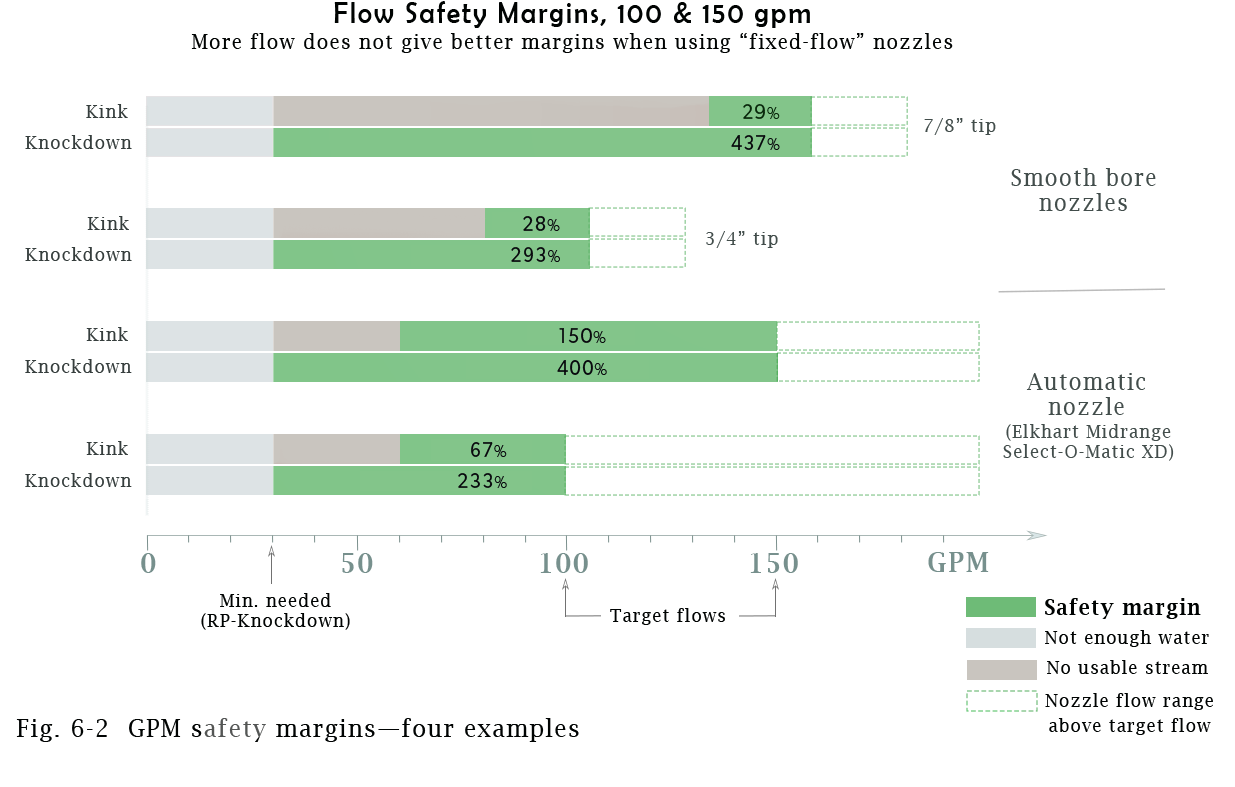
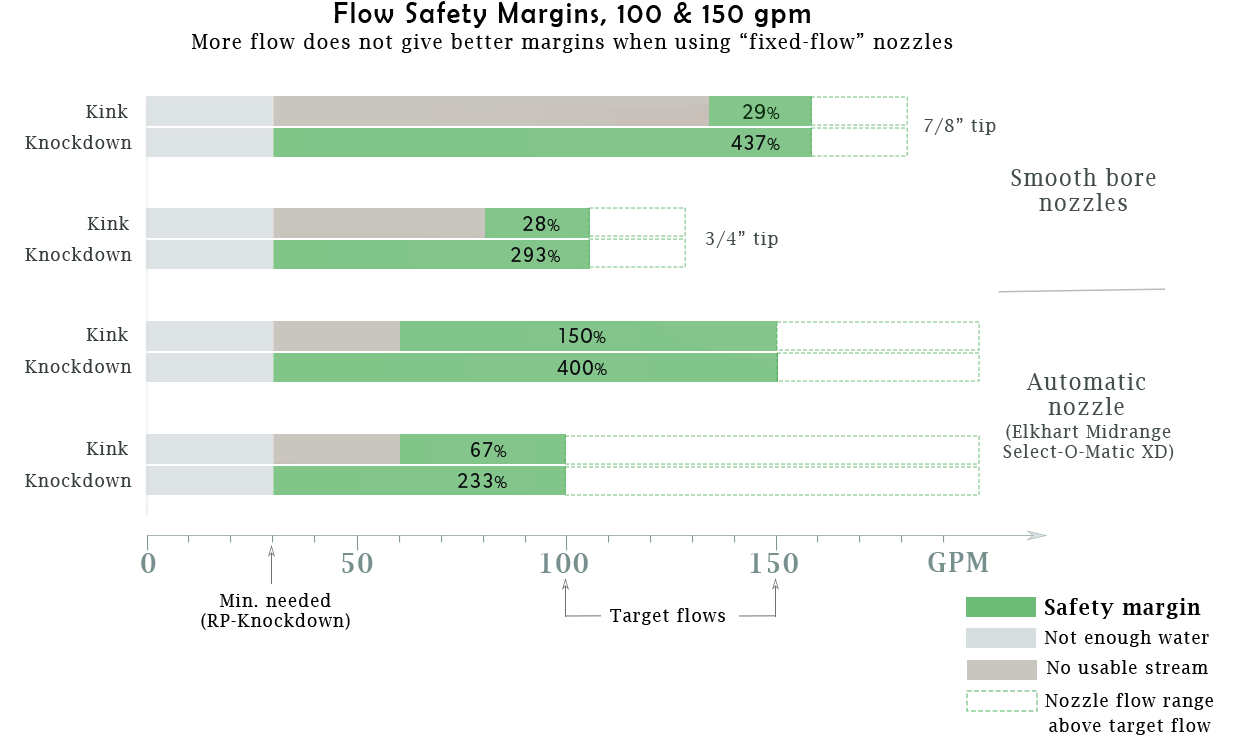
Fixed captions and added garden appt pic in GPM

diff --git a/Mockup.html b/Mockup.html
@@ -1,0 +1,140 @@
+<!doctype html>
+<html>
+<head>
+<!-- Global site tag (gtag.js) - Google Analytics -->
+<script async src="https://www.googletagmanager.com/gtag/js?id=G-ZQJKR29JEW"></script>
+<script>
+  window.dataLayer = window.dataLayer || [];
+  function gtag(){dataLayer.push(arguments);}
+  gtag('js', new Date());
+
+  gtag('config', 'G-ZQJKR29JEW');
+</script>	
+<meta charset="utf-8">
+<meta name="description" content="Flame length in structural firefighting">
+<meta name="keywords" content="flame length in structure fires, firefighting, structural firefighting, flame length, wetting fuel surfaces">
+<meta name="viewport" content="width=device-width, initial-scale=1">	
+<title>Flame Length etc</title>
+<link href="CSS/RoomFires.css" rel="stylesheet" type="text/css">
+<link rel="stylesheet" href="https://cdnjs.cloudflare.com/ajax/libs/font-awesome/4.7.0/css/font-awesome.min.css">	
+	<link rel="icon" href="IST icon.png">
+</head>
+
+<body>
+
+<section class="Room">
+<header>
+  <h1 id="DocTitle">
+    <nav class="RF-Nav">
+      <div class="dropdown">
+        <button class="dropbtn"> 
+          <i class="fa fa-bars"></i>
+          </button>
+        <div class="dropdown-content">
+          <a href="index.html">1. Room Fires etc</a>
+          <a href="PorchFires.html">2. Porch Fires etc</a>
+          <a href="AutomaticNozzles.html">3. Nozzles etc</a>
+          <a href="FlameLength.html">4. Flame Length etc</a>
+		  <a href="Cocklofts.html">5. Cockloft Fires etc</a>
+		  <a href="GPM.html">6. GPM and Safety Margins etc</a>
+          </div>
+		  <num>4 of 6</num>
+        </div> 
+      </nav>	  
+    <num2>4)</num2>Flame Length etc&nbsp;&nbsp;&nbsp;<br>
+    
+  </h1>
+	
+<div id="DocSubtitle"><span style="font-size:9px;line-height:80%">By 
+    <span class = "tooltip">Bob Bourgeois<span class="tooltipcontent"><span class="tooltiptext" >Bob is a former District Fire Chief (FF 40 yrs),  former LLC owner (public safety case studies), BSME Columbia Univ</span></span></span></span><br>
+        With input from
+        <span class = "tooltip">Joe Maloney<span class="tooltipcontent"><span class="tooltiptext" >Joe is a former District Fire Chief (FF 32 yrs, 19 as District Chief),  </span></span></span><br>    
+	<span style="font-size:.5rem;line-height:.2">1st draft 10Aug21&nbsp;&nbsp; Latest rev 27Feb24<br>Feedback/Qs roomfiresetc@gmail.com</span></div> 
+	
+	
+</header>
+	
+<p><figure style="margin-left:inherit;padding-left:9%;margin-top:.1em;margin-right:2.8em; width:40%;float:left;margin-bottom: 0em"><img src="images/Mur.png"  alt="Three-story, wood-frame residential building with cockloft" style ="width:100%;float:left;"/><figcaption style = "font-size:.8em;">Fig. 4-1&nbsp;  Flame Length is a clue</figcaption></figure></p>
+    
+<p>Structural firefighters should know two things about flame length.</p>	
+	
+<p>At building fires, flame length is a clue about   
+		<span class = "tooltip"><strong>how much airborne fuel</strong><span class="tooltipcontent"><span class="tooltiptext" ><a href="#AFdef">Airborne fuels</a> include pyrolysis gases, partially burned fuels, vapors from liquids, and normally gaseous fuels.</span></span></span> 
+	 (AF) is in a fire atmosphere.&nbsp; Simply stated, more fuel makes a flame stretch until it finds more air to burn the fuel.
+</p>
+	
+<p>It's an indicator to be used in combination with smoke, wind, building layout,  and other clues.&nbsp; Look for patterns and changes.&nbsp; Ask questions.&nbsp; Where are the pockets of AF?&nbsp; Is it building up?&nbsp; Spreading?&nbsp; Can it be vented?&nbsp; Is the fire attack stopping the production of AF?</p>
+    <br>
+<!--
+<p><figure style = "margin-left:inherit;padding-left:3.1em">
+		<img src="images/FlameLengthsHComposite.png"  alt="Length of flame from window, from roof, across ceiling." style="padding-left:3.2em;width:78%;"/><figcaption style = "margin-left:inherit;padding-left:3.9em;font-size:.8em;">Fig.4-2&nbsp;  Three variations of flame length</figcaption>
+		</figure></p>
+-->
+ <p><figure style="margin-left:inherit;padding-left:5%;width:34%;Margin-top:.1em;Float:right;padding-right: 3%"><img src="images/FlameLengthsVComposite.png"  alt="Three-story, wood-frame residential buildings" style="width:100%;Padding-right:1.6em;"><figcaption style = "font-size:.8em;">Fig. 4-2&nbsp;  Flame lengths</figcaption></figure></p>   
+
+    
+<!--<p><figure style = "margin-left:inherit;padding-left:3.1em">
+		<img src="images/FromWindow_.png"  alt="Length of flame from window, from roof, across ceiling." style="padding-left:3.2em;width:26%;"/><img src="images/FromRoof_.png"  alt="" style="padding-left:.2em;width:26%;"/><img src="images/AcrossCeiling.png"  alt="" style="padding-left:.2em;width:26%;"/>
+		<figcaption style="margin-left:inherit;padding-left:3.9em;font-size:.8em">Fig.4-1&nbsp;  Three variations of flame length</figcaption>
+		</figure></p>
+-->
+
+<p>We see the size of flames when they blow from roof holes and windows, but equally important is their stretch across ceilings and the underside of roof decks.&nbsp; The <strong>length of these sideways flames</strong> can be critical to the course of the incident — maybe determining how fast the fire will spread, how far it can reach to hurt someone, how difficult progress will be.</p>
+	
+<p>
+		<span class = "tooltip">Stable or semi-stable<span class="tooltipcontent"><span class="tooltipimage">See <a href="index.html">Room Fires etc</a><img src="images/F2.gif" width="382" height="206" alt="Stability animation"/></span></span></span> 
+	 progress against fire comes from wetting surfaces that are producing fuel gases 
+		<span class = "tooltip">(pyrolysis).<span class="tooltipcontent"><span class="tooltiptext" >Heat-driven processes that produce fuel gases from solid and liquid fuels</span></span></span>
+	&nbsp; Long horizontal flames can have a sizeable area where pyrolysis is not occuring.&nbsp; Water hitting that part of the visible fire won't help you make real headway.
+</p>
+	
+<p>If a crew doesn't understand, they may chase the flame pointlessly and/or misread the problem as not enough GPM.</p>
+	
+</section>
+<section class="Etc"><h2>Etc</h2>
+	<p>A long horizontal flame across the underside of a combustible surface (e.g. roof deck) can have 
+			<span class = "tooltip">three sections:<span class="tooltipcontent"><span class="tooltipimage"><img src="images/ApplyWater.png" width="382" height="206" alt="Sharp angle technique"/></span></span></span>	
+		</p>
+	
+	<ul>
+		<li>A <strong>pyrolysis-only</strong> section (enough heat for pyrolysis but not enough oxygen for flame).&nbsp; Wetting this area will help.</li>
+		<li>A <strong>pyrolysis-and-flame</strong> section.&nbsp; Wetting this area will help.</li>
+		<li>A <strong>flame-only</strong> section (not enough heat for pyrolysis yet).&nbsp; Water applied here will probably not be effective in reducing AF or putting the fire out.</li>
+	</ul>
+	
+	<hr>
+	
+	<p>One of the universal warnings in the fire service is “expect sudden changes”.&nbsp; There are many types of rapid events, but fast changes in fire conditions are some of the most deadly and most talked-about.&nbsp; Training, near-miss reports, and LODD reports are peppered with terms that mean either “airborne fuel burned suddenly” or “a flame extended quickly”.&nbsp; Don't overthink the hair-splitting jargon.&nbsp; It is more important to know that AF is a common factor</p>
+	
+	<hr>
+	
+	<p>When using a still photo in an after-action review or training session, don't forget that some of what you see is transient.&nbsp; A single pic doesn't tell you if a long window flame was steady or if it was a brief flare.&nbsp; Was it fed by a continuous supply of AF or just a pocket of AF that vented when the window broke?</p>
+
+	</section>
+<section class="RQs"><h2>Questions</h2>
+	<h3>Many FFs have been taught that smoke is fuel.&nbsp; Can’t they just look at the amount of smoke to gauge the amount of airborne fuels?</h3>
+	<p>No.</p>
+	<p>FFs should be taught that <strong>smoke is sometimes fuel</strong> and also that pyrolysis gases are sometimes transparent.&nbsp; There are clues in the smoke about airborne fuel, but they should be viewed with flame length and other clues.</p>
+	
+	<h3><a id="AFdef">What is included in the term “airborne fuels”?</a></h3>
+	<p>Pyrolysis gases</p>
+	<p>Partially-burned fuels <br>
+    (Many fuels burn in a chain reaction.&nbsp; If the chain is interrupted, the halfway products become available fuel.)</p>
+	<p>Vapors from flammable or combustible liquids that may be present<br>
+	(Spills or deliberate acts)</p>
+	<p>Natural gas, propane or other commercially available fuel gases that may be present<br>
+	(Leaks, relief valves, deliberate acts)</p>
+	
+		
+	</section>
+<section class="Wisdom">
+  <p>Situation awareness and decision making are not separate topics.</p>
+	<p>The bandwidth of a pair of eyes is much greater than the bandwidth of your radio channel 
+	</p>
+</section>
+	
+<footer>Copyright 2021,2023 
+	 <span class = "tooltip">Robert J. Bourgeois<span class="tooltipcontent"><span class="tooltiptext" >Former District Fire Chief (FF 40 yrs),  former LLC owner (public safety case studies), BSME Columbia Univ</span></span></span>
+	---- <a href="https://twitter.com/RJB429" target="new">@RJB429</a></footer>
+</body>
+</html>

diff --git a/GPM.html b/GPM.html
@@ -56,7 +56,7 @@
 	
 </header>
 	
-<p><figure style="margin-left:inherit;padding-left:4%;width:40%;Margin-top:.1em;Float:right"><img src="images/Harwood.png"  alt="Three-story, wood-frame residential buildings" style="width:100%;Padding-right:1.6em;"><figcaption style = "font-size:.8em;">Fig. 6-1&nbsp;  How much water?</figcaption></figure></p>
+<p><figure style="margin-left:inherit;padding-left:4%;width:40%;Margin-top:.1em;Float:right"><img src="images/Harwood.png"  alt="Three-story, wood-frame residential buildings" style="width:100%;Padding-right:1.6em;"><figcaption style = "font-size:.8em;">Fig. 6-1&nbsp;  How much water through each line for interior attack?</figcaption></figure></p>
 	
 	
 <p>What gpm should be used for interior attack at common residential fires?</p>
@@ -93,17 +93,22 @@
 
 <p>As with most safety margins, distance above the reference point will limit the benefit of a margin increase.&nbsp; If your RP is 30, a flow increase from 40 to 60 would be valuable.&nbsp; A boost from 140 to 160 would not.&nbsp; It’s unlikely that the higher numbers would ever come into play.</p><p>&nbsp;</p>
 	
-<p>
+<p><figure style="margin-left:inherit;padding-left:20%;margin-top:.1em;margin-right:1.5em; width:60%;"><img src="images/GPMsafetyMargins.png"  alt="Flow safety margins for automatic and smooth-bore nozzles at 100 and 150 gpm.  Knockdown margins very large in all cases.  Kink margins are big for automatic, but only 29% for smooth-bore regardless of size." style="width:100%;float:left;"/><figcaption style="font-size:.8em;">Fig. 6-3&nbsp;  GPM Safety Margins — 4 Examples</figcaption></figure></p>
+    
+    
+<!--<p>
 	<img src="images/GPMsafetyMargins.png"  alt="Flow safety margins for automatic and smooth-bore nozzles at 100 and 150 gpm.  Knockdown margins very large in all cases.  Kink margins are big for automatic, but only 29% for smooth-bore regardless of size." style="width:60%;margin-left:20%"/> 
 	
-</p>
+</p>-->
 	
 
-<p>Figure 6-2 shows that, when some departments pushed residential target flows from 100 gpm to 150, they expanded knockdown margins that were already large (> 230%).&nbsp; Any risk reduction was tiny.&nbsp; Kink margins got worse if they changed from adjustable-flow to fixed-flow nozzles (e.g. automatic to smooth-bore); got better if they kept adjustable-flow; and stayed the same if they kept fixed-flow.&nbsp; So marginal benefit from the flow increase went only to departments that had adjustable-flow nozzles and stayed with them.&nbsp;  They saw a modest decline of their risk from kinks.</p>	
+<p>Figure 6-3 shows that, when some departments pushed residential target flows from 100 gpm to 150, they expanded knockdown margins that were already large (> 230%).&nbsp; Any risk reduction was tiny.&nbsp; Kink margins got worse if they changed from adjustable-flow to fixed-flow nozzles (e.g. automatic to smooth-bore); got better if they kept adjustable-flow; and stayed the same if they kept fixed-flow.&nbsp; So marginal benefit from the flow increase went only to departments that had adjustable-flow nozzles and stayed with them.&nbsp;  They saw a modest decline of their risk from kinks.</p>	
 	
 <br>
 	
-<p>Comparing benefits to costs, we see several tradeoffs.&nbsp; Two stand out:</p>	
+<p><figure style="margin-left:inherit;padding-left:4%;width:40%;Margin-top:.1em;Float:right"><img src="images/GardenApts.png"  alt="Garden apartment building" style="width:100%;Padding-right:1.6em;"><figcaption style = "font-size:.8em;">Fig. 6-4&nbsp;  How much water through each line for interior attack?</figcaption></figure></p>
+    
+<p>Comparing benefits to costs, we see several tradeoffs, but two stand out:</p>	
 <ul>
 	<li>Applying more water requires more exertion.</li>
 	<li>Applying more water requires more water.</li>
